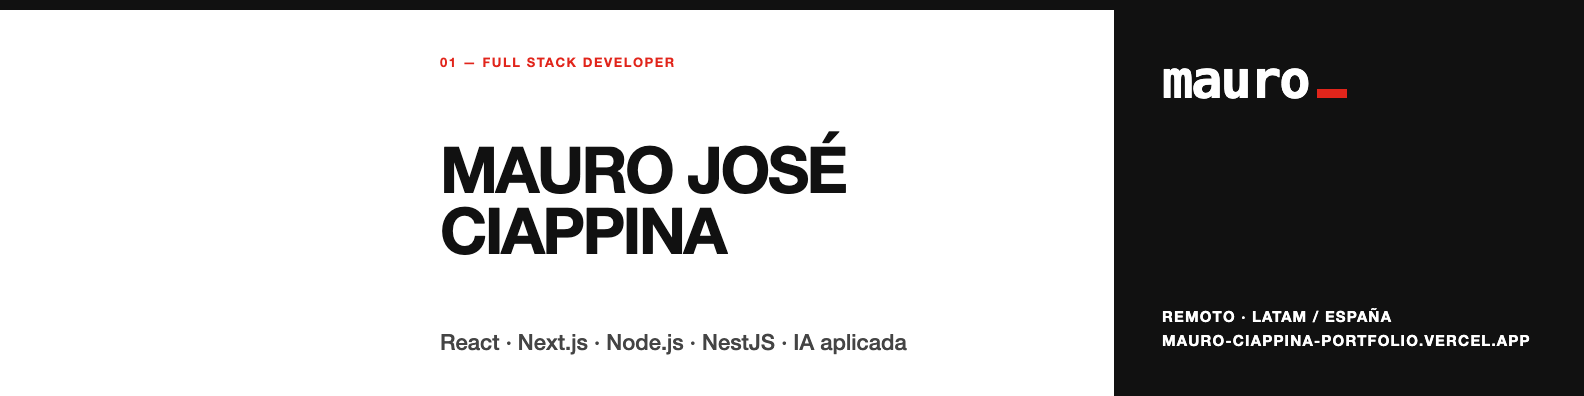
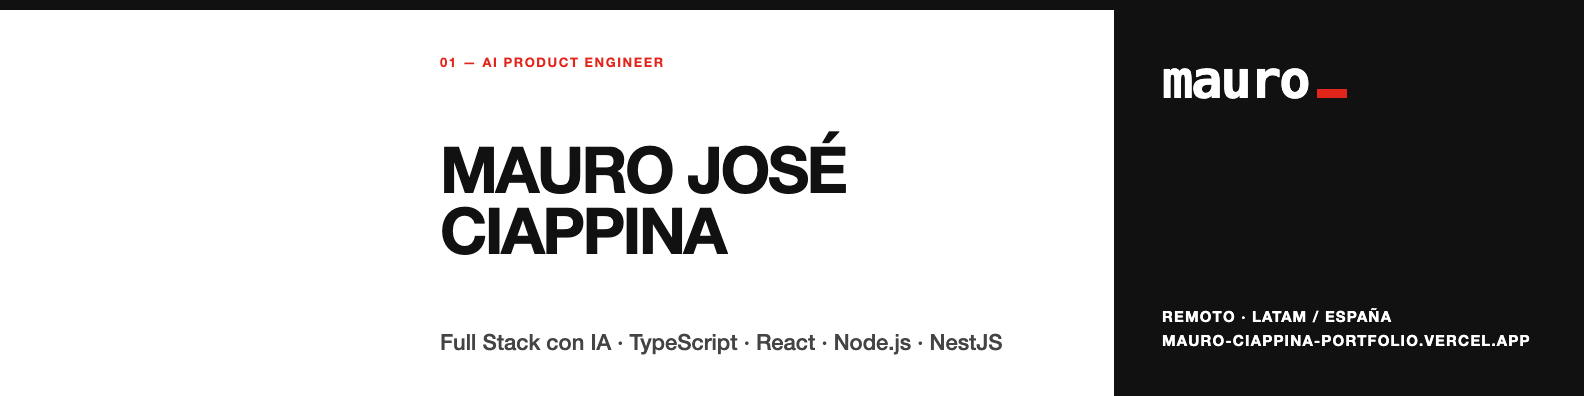
docs: retitle profile as AI Product Engineer

Changed region(s): [[0.2784, 0.8485, 0.6496, 0.9091], [0.3093, 0.1212, 0.4331, 0.1818]]

diff --git a/README.md b/README.md
@@ -1,10 +1,10 @@
 <img src="assets/banner.png" alt="Mauro José Ciappina, Full Stack Developer: React, Next.js, Node.js, NestJS e IA aplicada" width="100%">
 
-### `mauro▬` · Desarrollador Full Stack
+### `mauro▬` · AI Product Engineer · Full Stack con IA
 
 Construyo interfaces web, APIs y herramientas para desarrolladores con **React, TypeScript, Node.js y NestJS**. Uso agentes de IA todos los días, pero como herramienta: defino la arquitectura, escribo los tests primero, reviso cada cambio y entrego en PRs chicos.
 
-Hoy hago frontend y tooling para e-commerce en **Leren Consulting**. Antes trabajé en remoto para equipos de España y EE. UU. en backend y full stack.
+Hasta noviembre de 2026 hice frontend y tooling para e-commerce en **Leren Consulting**; antes trabajé en remoto para equipos de España y EE. UU. en backend y full stack.
 
 **[Portfolio](https://mauro-ciappina-portfolio.vercel.app)** · **[LinkedIn](https://www.linkedin.com/in/maurojoseciappina/)** · **[YouTube: Mr.Mauroo](https://www.youtube.com/@soymrmauroo)**
 
@@ -25,7 +25,7 @@ También: una plataforma healthtech como cofundador técnico (privada, bajo NDA)
 
 #### 02 — Experiencia
 
-- **Frontend Developer** — Leren Consulting · jul 2026 – hoy
+- **Frontend Developer** — Leren Consulting · jul 2026 – nov 2026
 - **Backend Developer** — Dazlab · oct 2024 – jun 2025
 - **Full Stack Developer** — Hows Advisor · mar – may 2024
 - **Full Stack Developer** — Packar · dic 2023 – abr 2024
